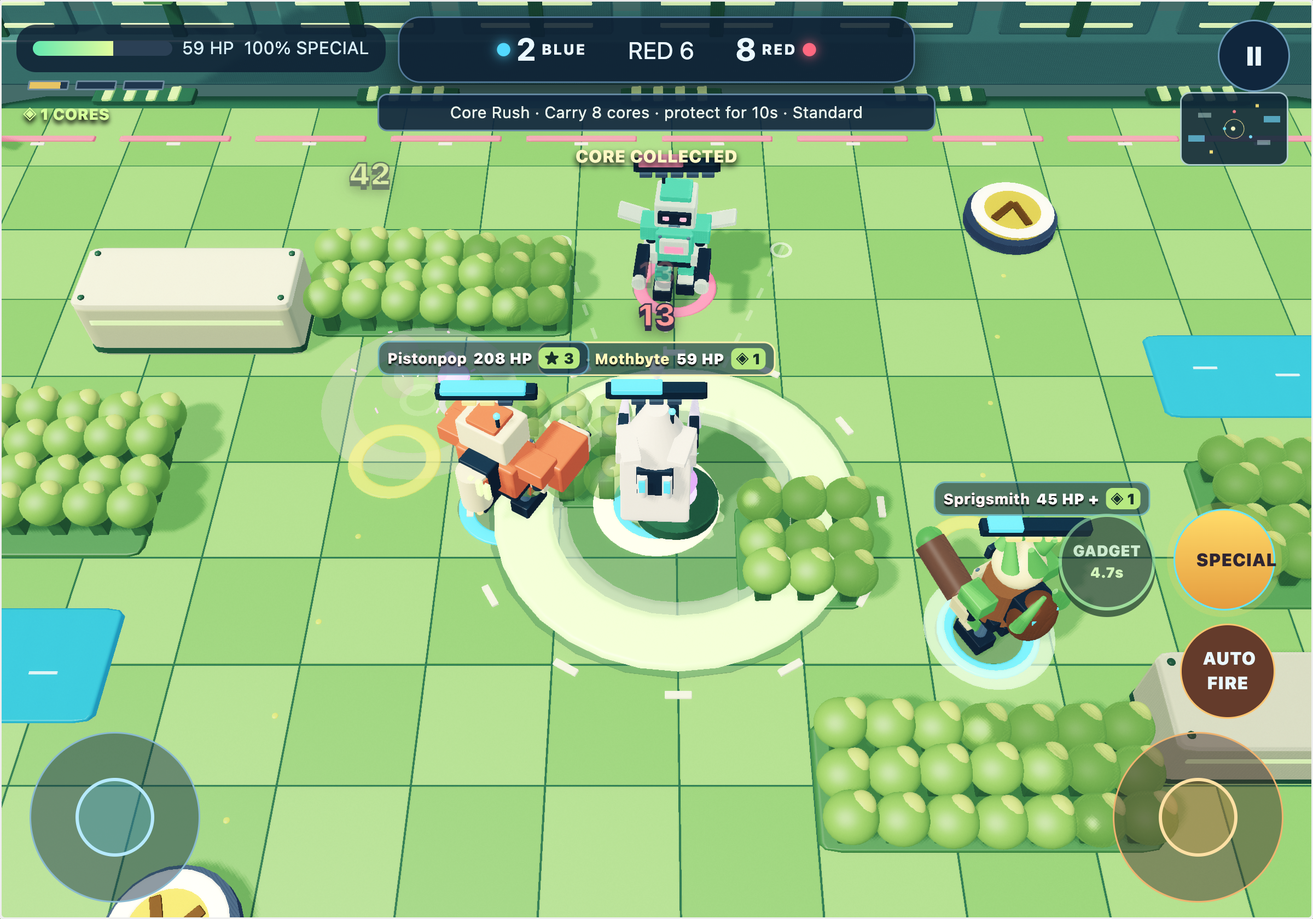
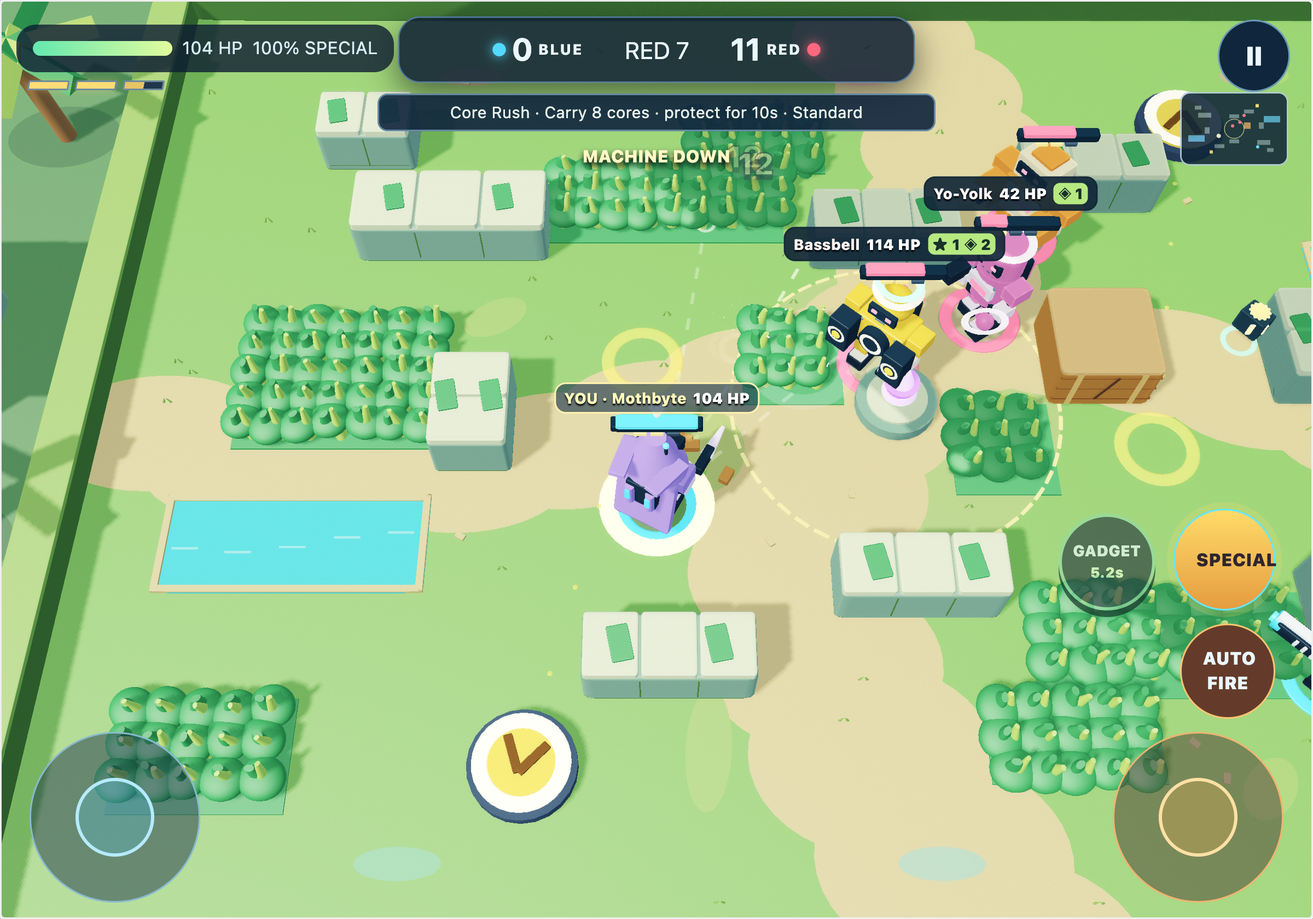
Publish Rivet Rumble world update (#12)

diff --git a/rivet-rumble/renderer.js b/rivet-rumble/renderer.js
@@ -20,13 +20,15 @@
   function lookAt(eye,target,up){let z=norm([eye[0]-target[0],eye[1]-target[1],eye[2]-target[2]]),x=norm(cross(up,z)),y=cross(z,x);return[x[0],y[0],z[0],0,x[1],y[1],z[1],0,x[2],y[2],z[2],0,-dot(x,eye),-dot(y,eye),-dot(z,eye),1];}
   const HD=typeof GameHD!=='undefined'?GameHD:typeof require==='function'?require('./hd-scene.js'):null;
   const PALETTES=[
-    {floor:'#74b8ab',tile:'#88c6ba',edge:'#214e62',stone:'#b4d4d8',top:'#edf7e9',accent:'#5bffe0',water:'#258eae',wood:'#c98548',back:'#396e83'},
-    {floor:'#c79c73',tile:'#d8b18a',edge:'#623f4d',stone:'#af6c58',top:'#f7d6a5',accent:'#ffb958',water:'#e47545',wood:'#bf8045',back:'#664956'},
-    {floor:'#7d9daa',tile:'#90b0b9',edge:'#30465f',stone:'#7c839f',top:'#dbe5f1',accent:'#c7a0ff',water:'#588ca1',wood:'#a68b62',back:'#405771'},
-    {floor:'#6ea75c',tile:'#81b969',edge:'#305b48',stone:'#b8bd94',top:'#e9e8bc',accent:'#baf489',water:'#338fac',wood:'#af8554',back:'#456c69'},
-    {floor:'#d7ad73',tile:'#e0bb87',edge:'#895441',stone:'#bd7556',top:'#f4d59d',accent:'#ffb452',water:'#cf7b47',wood:'#a67b4c',back:'#87625b'},
-    {floor:'#638aa5',tile:'#729eaf',edge:'#253c63',stone:'#6c79ae',top:'#c3def1',accent:'#78ffe0',water:'#2e78b6',wood:'#9e87ac',back:'#364b78'}
+    {floor:'#7dac65',tile:'#bdb780',edge:'#68854c',stone:'#738b9e',top:'#bdced3',accent:'#72e3df',water:'#48b9ce',wood:'#c48a46',back:'#708e55',grass:'#4c9e59',tip:'#9ed15c',soil:'#8e9c5a'},
+    {floor:'#d99b65',tile:'#dfb57f',edge:'#aa7051',stone:'#c6815d',top:'#f5c78b',accent:'#ffcb69',water:'#54b5c3',wood:'#b87844',back:'#b87e58',grass:'#b99543',tip:'#e7c859',soil:'#d49e64'},
+    {floor:'#7c74a5',tile:'#918ab0',edge:'#615478',stone:'#7d729f',top:'#c3b8d7',accent:'#b7a5ff',water:'#6d9dce',wood:'#a38379',back:'#635877',grass:'#548e94',tip:'#83c0b0',soil:'#79749e'},
+    {floor:'#6ca556',tile:'#b9aa78',edge:'#527a46',stone:'#779c8a',top:'#c3d3ac',accent:'#e8db83',water:'#4bb9c3',wood:'#b78148',back:'#537e56',grass:'#44945b',tip:'#a6d16a',soil:'#7eaa5b'},
+    {floor:'#db995f',tile:'#e6b97e',edge:'#a56349',stone:'#cb7854',top:'#f3bb80',accent:'#ffd777',water:'#55b9c4',wood:'#bc814b',back:'#b67a53',grass:'#aa9a49',tip:'#e4cb67',soil:'#d79660'},
+    {floor:'#7098ad',tile:'#91b1bd',edge:'#4c6c82',stone:'#697f9c',top:'#bacfdf',accent:'#72eee5',water:'#409fcd',wood:'#bb8d68',back:'#4f768e',grass:'#4c9390',tip:'#96c9ab',soil:'#7496a8'}
   ];
+  // Stable detail positions: rendering never consumes the match's gameplay RNG.
+  const noise=(x,z)=>{const v=Math.sin(x*127.1+z*311.7)*43758.5453;return v-Math.floor(v);};
   function Renderer(canvas,options){
     this.canvas=canvas;this.options=options||{};this.ready=false;this.lost=false;this.time=0;
     this.eye=[16,23.5,28.5];this.target=[16,0,11];this.fov=.82;this.camera={};this.init();
@@ -43,51 +45,107 @@
   Renderer.prototype.screenToWorld=function(clientX,clientY){const r=this.canvas.getBoundingClientRect(),nx=(clientX-r.left)/r.width*2-1,ny=1-(clientY-r.top)/r.height*2,t=Math.tan(this.fov/2),d=norm(this.camera.forward.map((v,i)=>v+this.camera.right[i]*nx*t*this.camera.aspect+this.camera.up[i]*ny*t)),k=-this.eye[1]/d[1];return{x:clamp(this.eye[0]+d[0]*k,0,32),z:clamp(this.eye[2]+d[2]*k,0,22)};};
   Renderer.prototype.part=function(name,x,y,z,sx,sy,sz,c,ry=0,rx=0,rz=0,glow=0,cast=true,rough=.52,metal=.25,kind=0){this.scene.draw(name,HD.matrix(x,y,z,sx,sy,sz,ry,rx,rz),c,[rough,metal,glow,kind],cast);};
   Renderer.prototype.floor=function(state,p){
-    const d=this.part.bind(this);d('box',16,-.4,11,33,.8,23,p.edge,0,0,0,0,false);d('box',16,-.13,11,32,.22,22,p.floor,0,0,0,0,false,.9,0,2);
-    for(let x=1;x<32;x+=2)for(let z=1;z<22;z+=2)d('cube',x,-.006,z,1.97,.02,1.97,((x+z)%4)?p.floor:p.tile,0,0,0,0,false,.88,0,2);
-    for(const z of [1.1,20.9])for(let x=2;x<31;x+=3){d('box',x,.02,z,2.45,.04,.16,z<11?'#ed7180':'#67daff',0,0,0,.12,false);d('cube',x,.025,z+.18,.3,.025,.09,'#f5eedc',0,0,0,0,false);}
-    for(const x of [.25,31.75]){d('box',x,.05,11,.18,.12,21.7,p.top,0,0,0,0,false);d('box',x,-.08,11,.38,.03,21.8,p.water,0,0,0,.2,false);}
-    // The objective and final ring retain the engine's exact ground coordinates.
+    const d=this.part.bind(this);
+    // A continuous landscape replaces the elevated board and its gameplay-like grid.
+    d('box',16,-.36,11,48,.6,38,p.back,0,0,0,0,false,1,0);
+    d('cube',16,-.09,11,32,.16,22,p.floor,0,0,0,0,false,1,0);
+    // Quiet, continuous worn paths leave combat silhouettes and cover in focus.
+    for(let z=1;z<22;z+=1.7)d('disc',16+Math.sin(z*.32)*2,.003,z,4.3,1,3.4,p.tile,0,0,0,0,false,1,0);
+    for(let x=1.5;x<32;x+=2)d('disc',x,.004,11+Math.sin(x*.26)*1.6,4.4,1,2.6,p.tile,0,0,0,0,false,1,0);
+    for(let i=0;i<7;i++)d('disc',1+noise(i,7)*30,.005,1+noise(i,19)*20,1.2+noise(i,11),1,.8,p.soil,noise(i,2)*TAU,0,0,0,false,1,0);
+    // Small stones and short tufts are ground decoration, never apparent cover.
+    for(let i=0;i<65;i++){
+      const x=1+noise(i,31)*30,z=1+noise(i,41)*20;
+      if(state.arenaData.obstacles.some(o=>x>o.x-.2&&x<o.x+o.w+.2&&z>o.z-.2&&z<o.z+o.h+.2)||state.arenaData.brush.some(b=>x>b.x&&x<b.x+b.w&&z>b.z&&z<b.z+b.h))continue;
+      if(i%3===0)d('box',x,.03,z,.12,.055,.19,p.tile,noise(i,17)*TAU,0,0,0,false,1,0);
+      else for(const side of [-1,1])d('cone',x+side*.045,.08,z,.06,.16,.035,p.soil,0,0,side*.35,0,false,1,0);
+    }
+    // Team entry marks stay flat and do not resemble colliders.
+    for(const [z,c]of [[2.2,'#d87d83'],[19.8,'#68b9c7']])for(const x of [7,16,25])d('disc',x,.015,z,1.45,1,.55,color(c,.5),0,0,0,0,false,1,0);
     if(state.mode==='foundry'||state.mode==='rush'){
-      d('cylinder',16,.018,11,6.5,.028,6.5,color(p.edge,.32),0,0,0,0,false);
-      d('torus',16,.062,11,6.3,6.3,.3,p.accent,0,-Math.PI/2,0,.4,false);
-      d('torus',16,.04,11,5.55,5.55,.14,color(p.top,.6),0,-Math.PI/2,0,.1,false);
-      for(let i=0;i<12;i++){const a=i/12*TAU;d('box',16+Math.cos(a)*3.55,.06,11+Math.sin(a)*3.55,.12,.05,.42,p.top,-a,0,0,.1,false);}
-      d('gear',16,.025,11,1.7,.12,1.7,color(p.accent,.6),this.time*.1,0,0,.15,false);if(state.mode==='rush'){d('cylinder',16,.18,11,1.45,.3,1.45,p.edge);d('cone',16,.85,11,.7,.7,.7,'#d5a8ff',this.time*.5,0,0,.6);d('cone',16,.5,11,.7,.7,.7,'#af72eb',this.time*.5,Math.PI,0,.4);}
+      d('disc',16,.018,11,6.5,1,6.5,color(p.tile,.45),0,0,0,0,false,1,0);
+      // Thin segmented paint keeps the exact 3.25-unit scoring boundary readable.
+      for(let i=0;i<48;i++){const a=i/48*TAU;d('box',16+Math.cos(a)*3.25,.035,11+Math.sin(a)*3.25,.32,.025,.075,p.accent,-a-Math.PI/2,0,0,.10,false);}
+      if(state.mode==='rush'){
+        d('cylinder',16,.14,11,1.6,.28,1.6,p.stone);d('cylinder',16,.30,11,1.2,.08,1.2,p.top);
+        d('cone',16,.90,11,.7,.7,.7,'#d5a8ff',this.time*.5,0,0,.4);d('cone',16,.55,11,.7,.7,.7,'#af72eb',this.time*.5,Math.PI,0,.3);
+      }else{d('disc',16,.027,11,1.2,1,1.2,color(p.accent,.35),0,0,0,.06,false);}
     }else{const radius=state.ring||17;for(let i=0;i<96;i++){const a=i/96*TAU,tx=-Math.sin(a),tz=Math.cos(a)/1.23;d('box',16+Math.cos(a)*radius,.07,11+Math.sin(a)*radius/1.23,radius*TAU/96,.045,.10,'#c5e98a',-Math.atan2(tz,tx),0,0,.15,false);}}
   };
+  Renderer.prototype.tree=function(x,z,p,palm){
+    const d=this.part.bind(this);
+    d('disc',x,.006,z,2.5,1,1.8,color('#243f38',.20),0,0,0,0,false);
+    d('cylinder',x,1.15,z,.4,2.3,.4,'#90704d',.2,0,.07,0,true,1,0);
+    if(palm){for(let i=0;i<6;i++){const a=i*TAU/6;d('wedge',x+Math.sin(a)*.65,2.65,z+Math.cos(a)*.65,.55,.35,2.1,i%2?p.grass:p.tip,a,.12,0,0,true,.9,0);}}
+    else{for(const [dx,y,dz,r]of [[0,2.6,0,2.6],[-.6,2.3,.3,1.6],[.6,2.7,-.3,1.8]])d('sphere',x+dx,y,z+dz,r,r*.8,r,dx<0?p.grass:p.tip,.25,0,0,0,true,1,0);}
+  };
   Renderer.prototype.scenery=function(state,p){
-    const d=this.part.bind(this),reduced=this.options.reducedMotion?.()||false,time=reduced?0:this.time;
-    // Background architecture stays beyond the playable footprint.
-    d('box',16,.6,-1.4,35,1.2,1.2,p.back);d('box',16,3.7,-1.9,35,.22,.38,p.top);
-    for(let x=1;x<34;x+=4){d('box',x,2,-1.45,.32,4,1,p.edge);d('box',x,2.3,-1.12,3.4,2.35,.14,p.back);for(let y=1.45;y<3.4;y+=.55)d('box',x,y,-1.02,2.5,.08,.07,p.accent,0,0,0,.25);d('cylinder',x,3.95,-1.4,.42,.3,.42,p.top);}
+    const d=this.part.bind(this),time=this.options.reducedMotion?.()?0:this.time;
+    // Solid boundary follows the movement bounds; all scenery remains outside it.
+    for(const x of [0,32]){d('box',x,.35,11,.8,.7,23,p.edge,0,0,0,0,true,1,0);d('box',x,.72,11,.82,.10,23,p.soil,0,0,0,0,true,1,0);}
+    for(const z of [0,22]){d('box',16,.35,z,32,.7,.8,p.edge,0,0,0,0,true,1,0);d('box',16,.72,z,32,.10,.82,p.soil,0,0,0,0,true,1,0);}
     for(const o of state.arenaData.obstacles){
-      if(o.hp<=0)continue;const x=o.x+o.w/2,z=o.z+o.h/2,wood=o.destructible;
-      if(o.kind==='water'){d('box',x,.025,z,o.w,.055,o.h,p.water,0,0,0,.12,false,.2,.4);for(let i=0;i<3;i++)d('box',x-o.w*.3+i*o.w*.3,.06,z+Math.sin(time+i)*.2,.45,.018,.055,'#ace9ee',0,0,0,.15,false);continue;}
-      d('box',x,.66,z,o.w,1.3,o.h,wood?p.wood:p.stone);d('box',x,1.34,z,o.w,.12,o.h,wood?'#f4c581':p.top);
-      if(wood){
-        for(let u=-o.w*.3;u<=o.w*.3+.01;u+=Math.max(.55,o.w*.3))d('box',x+u,.7,z,.075,1.25,o.h+.015,'#825334');
-        for(const s of [-1,1]){d('box',x,.69,z+s*(o.h*.5+.008),o.w*.87,.12,.035,'#664936',0,0,s*.35);d('box',x+o.w*s*.33,.7,z,.12,1.38,o.h+.025,'#647b83');}
-      }else{
-        d('box',x,.18,z,o.w+.02,.16,o.h+.02,p.edge);
-        for(const s of [-1,1]){d('box',x,.94,z+s*(o.h*.5+.005),Math.max(.3,o.w-.45),.12,.025,p.accent,0,0,0,.25);for(const u of [-1,1])d('sphere',x+u*(o.w*.5-.18),1.42,z+s*(o.h*.5-.18),.12,.08,.12,p.edge);}
+      const x=o.x+o.w/2,z=o.z+o.h/2;
+      if(o.hp<=0){
+        d('disc',x,.018,z,o.w,1,o.h,color(p.soil,.5),0,0,0,0,false);
+        for(let i=0;i<4;i++)d('box',x+(noise(i,o.x)-.5)*o.w*.7,.09,z+(noise(i,o.z)-.5)*o.h*.7,.32,.16,.20,p.wood,noise(i,9)*TAU,0,0,0,false,1,0);
+        continue;
       }
-      // Shallow panels and metal straps never extend the collider silhouette.
-      if(wood&&o.hp<65)d('box',x,.85,z+o.h*.5+.016,.035,.8,.02,'#513a35',0,0,-.28);
+      if(o.kind==='water'){
+        d('box',x,.023,z,o.w,.04,o.h,p.water,0,0,0,.08,false,.32,.04);
+        // Banks stay inside the same impassable rectangle, with no false extra wall.
+        for(const side of [-1,1]){d('box',x,.05,z+side*(o.h/2-.07),o.w,.07,.14,p.tile,0,0,0,0,false,1,0);d('box',x+side*(o.w/2-.07),.05,z,.14,.07,o.h,p.tile,0,0,0,0,false,1,0);}
+        for(let i=0;i<5;i++)d('box',o.x+o.w*(i+.5)/5,.055,z+Math.sin(time*.8+i)*Math.min(.2,o.h*.2),Math.min(.5,o.w/7),.015,.045,color('#c3f4ef',.55),0,0,0,.05,false);
+        continue;
+      }
+      if(o.destructible){
+        // Separately modeled timber stacks clearly signal breakable, resource-bearing cover.
+        d('box',x,.56,z,o.w,1.12,o.h,p.wood,0,0,0,0,true,.95,0);
+        for(const h of [.26,.62,.98])d('box',x,h,z+o.h/2-.018,o.w-.06,.035,.045,'#946239',0,0,0,0,true,1,0);
+        for(const u of [-.31,.31])d('box',x+o.w*u,.58,z,.13,1.18,o.h+.015,'#e4bc73',0,0,0,0,true,.9,0);
+        d('box',x,1.15,z,o.w,.07,o.h,'#dfb478',0,0,0,0,true,1,0);
+        if(o.hp<65)d('box',x,.66,z+o.h*.5+.02,.05,.8,.02,'#614737',0,0,-.35);
+      }else{
+        // Masonry seams are visual subdivisions of the exact single collider.
+        d('box',x,.55,z,o.w,1.1,o.h,p.stone,0,0,0,0,true,.95,0);
+        const cols=Math.max(1,Math.round(o.w/1.15)),rows=Math.max(1,Math.round(o.h/1.15));
+        for(let i=0;i<cols;i++)for(let j=0;j<rows;j++){
+          const bx=o.x+(i+.5)*o.w/cols,bz=o.z+(j+.5)*o.h/rows;
+          d('box',bx,1.13,bz,o.w/cols-.045,.18,o.h/rows-.045,p.top,0,0,0,0,true,1,0);
+        }
+        d('box',x,.13,z,o.w,.16,o.h,p.edge,0,0,0,0,true,1,0);
+        for(let i=1;i<cols;i++)d('box',o.x+i*o.w/cols,.61,z+o.h/2+.004,.027,.85,.012,p.edge,0,0,0,0,false,1,0);
+        if(state.arena===3)for(const side of [-1,1])d('box',x+side*o.w*.28,1.235,z,.38,.03,Math.min(o.h,.65),p.grass,.2,0,0,0,false,1,0);
+      }
     }
+    const player=state.entities.find(e=>e.id==='player');
     for(const b of state.arenaData.brush||[]){
-      const player=state.entities.find(e=>e.id==='player'),near=player&&player.x>b.x-1&&player.x<b.x+b.w+1&&player.z>b.z-1&&player.z<b.z+b.h+1;
-      d('box',b.x+b.w/2,.025,b.z+b.h/2,b.w,.04,b.h,'#48794b',0,0,0,0,false,.9,0);
-      for(let x=b.x+.4;x<b.x+b.w;x+=.7)for(let z=b.z+.35;z<b.z+b.h;z+=.7){const wave=Math.sin(time*1.4+x+z)*.035,height=.68+Math.sin(x*8+z*4)*.12;d('box',x,.32,z,.26,.65,.26,'#406d48',wave,0,0,0,true,.85,0);d('sphere',x+wave,height,z,.8,.72,.76,color(state.arena===4?'#a4a957':'#78aa58',near?.55:1),0,0,0,0,true,.9,0);d('sphere',x+.13,height+.2,z-.1,.4,.32,.42,color('#b5ce72',near?.55:1),0,0,0,0,false,.8,0);}
+      // Flat bed has the exact concealment footprint. Grass never grows through cover.
+      d('cube',b.x+b.w/2,.022,b.z+b.h/2,b.w,.035,b.h,p.grass,0,0,0,0,false,1,0);
+      for(let x=b.x+.24;x<b.x+b.w-.05;x+=.58)for(let z=b.z+.24;z<b.z+b.h-.05;z+=.58){
+        if(state.arenaData.obstacles.some(o=>o.hp>0&&x>o.x-.2&&x<o.x+o.w+.2&&z>o.z-.2&&z<o.z+o.h+.2))continue;
+        const n=noise(x,z),wave=Math.sin(time*1.7+x+z)*.045,h=.65+n*.27,near=player&&Math.hypot(player.x-x,player.z-z)<1.7,a=near?.60:1;
+        d('sphere',x+(n-.5)*.16,.27,z+(noise(z,x)-.5)*.16,.82,.45,.77,color(p.grass,a),n*TAU,0,0,0,true,1,0);
+        d('cone',x+(n-.5)*.12,.35,z,.56,h,.38,color(p.grass,a),n*TAU,wave,.12,0,true,1,0);
+        d('cone',x+.12,.39,z+.05,.32,h+.12,.25,color(p.tip,a),n*TAU+.9,-wave,-.17,0,true,1,0);
+      }
     }
-    if(state.arena===3)for(const [x,z]of [[-1,6],[33,16],[5,-2],[27,24]]){d('cylinder',x,1.3,z,.45,2.7,.45,'#805e47');for(let i=0;i<5;i++)d('box',x+Math.sin(i*1.3)*.5,2.8,z+Math.cos(i*1.3)*.5,.65,.25,2.3,'#74ae68',i*1.3,.3);}
-    if(state.arena===4)for(const [x,z]of [[-1,7],[33,15],[2,-2],[30,24]]){d('box',x,1.2,z,2.4,2.4,2.1,'#ae6952',.2);d('cone',x+.3,3,z,2.7,2.3,2.3,'#e0a16e',.2);d('cylinder',x-.4,.5,z+1.3,.48,1.1,.48,'#89a064');}
-    if(state.arena===5)for(const [x,z]of [[-1,6],[33,16]]){d('box',x,2,z,.6,4,.6,'#344a77');d('box',x,4,z,2.3,.35,.6,'#b3a4e8');d('box',x,3.7,z,1.8,.1,.5,'#7bffeb',0,0,0,.6);}
-    for(const [x,z]of [[-1,2],[-1,20],[33,2],[33,20]]){
-      d('cylinder',x,.5,z,1.9,1,1.9,p.edge);d('cylinder',x,1.25,z,1.4,.5,1.4,p.stone);d('torus',x,1.58,z,1.48,1.48,.17,p.accent,0,-Math.PI/2,0,.4);d('sphere',x,1.9,z,.48,.6,.48,p.top);
-      for(let i=0;i<4;i++){const a=time*.6+i*TAU/4;d('box',x+Math.cos(a)*.75,2.15,z+Math.sin(a)*.75,1.3,.09,.25,p.top,-a);}
+    // Each district has its own small world rather than repeated industrial fans.
+    for(const [x,z]of [[-2,4],[-2,14],[34,8],[34,19],[5,-2],[26,-2],[3,24],[28,24]]){
+      if(state.arena===1||state.arena===4){
+        d('box',x,.70,z,2.3,1.5,1.8,p.stone,.15,0,.05,0,true,1,0);d('box',x-.2,1.55,z,1.7,.55,1.4,p.top,-.1,0,0,0,true,1,0);
+        d('cylinder',x+1,.6,z+.7,.34,1.2,.34,p.grass,0,0,.1,0,true,1,0);d('sphere',x+1,1.2,z+.7,.36,.36,.36,p.tip,0,0,0,0,true,1,0);
+      }else if(state.arena===5){
+        d('box',x,.06,z,2.5,.15,2.5,p.wood,0,0,0,0,true,1,0);for(const off of [-.9,.9])d('cylinder',x+off,.6,z,.2,1.2,.2,p.edge,0,0,0,0,true,1,0);
+        d('box',x,1.3,z,1.5,2.6,.18,p.edge);d('box',x,2.7,z,1.8,.2,.65,p.top);d('box',x,2.55,z+.15,1.3,.08,.2,p.accent,0,0,0,.35);
+      }else this.tree(x,z,p,state.arena===3);
     }
-    for(let x=4;x<31;x+=6){d('box',x,.09,-.3,2.3,.12,.5,p.edge);for(let k=0;k<4;k++)d('box',x-.8+k*.5,.17,-.3,.22,.05,.48,p.accent,0,0,.1,0,false);}
+    for(const [x,z,angle]of [[-3.2,10,Math.PI/2],[35.2,13,-Math.PI/2],[11,-3.3,0],[23,25.3,Math.PI]]){
+      d('box',x,1,z,3.2,2,2.2,p.stone,angle,0,0,0,true,1,0);
+      d('box',x,2.16,z,3.7,.35,2.7,state.arena===5?p.edge:p.wood,angle,0,0,0,true,.9,0);
+      const fx=x+Math.sin(angle)*1.13,fz=z+Math.cos(angle)*1.13;
+      d('box',fx,1.05,fz,.9,1.5,.08,p.edge,angle);d('box',fx,1.8,fz,1.2,.2,.15,p.top,angle);
+    }
   };
   function teamColor(e){return e.team==='blue'?C.blue:e.team==='red'?C.red:e.id==='player'?C.solo:'#c18bff';}
   Renderer.prototype.robot=function(state,e){
@@ -207,11 +265,11 @@
     if(!this.ready||this.lost)return;
     const raw=state.entities.find(e=>e.id==='player'),alpha=clamp(state.accumulator/RivetRumbleEngine.STEP,0,1),player=raw?{...raw,x:(raw.prevX??raw.x)+(raw.x-(raw.prevX??raw.x))*alpha,z:(raw.prevZ??raw.z)+(raw.z-(raw.prevZ??raw.z))*alpha}:null,portrait=this.canvas.clientWidth/this.canvas.clientHeight<.8,focus=player?clamp(player.x,portrait?5:10,portrait?27:22):16,focusZ=player?clamp(player.z-1,5.5,16):11,dt=clamp((now-(this.previousTime??now))/1000,0,.1),fresh=this.previousState!==state;
     const follow=1-Math.exp(-dt*9);this.focusX=fresh?focus:(this.focusX??focus)+(focus-(this.focusX??focus))*follow;this.focusZ=fresh?focusZ:(this.focusZ??focusZ)+(focusZ-(this.focusZ??focusZ))*follow;
-    this.previousState=state;this.previousTime=now;this.eye=[this.focusX,portrait?22:17.5,this.focusZ+(portrait?16.5:13)];this.target=[this.focusX,0,this.focusZ];this.fov=portrait?.76:.72;
+    this.previousState=state;this.previousTime=now;this.eye=[this.focusX,portrait?26:21.5,this.focusZ+(portrait?14:11.5)];this.target=[this.focusX,0,this.focusZ];this.fov=.70;
     this.resize();this.time=this.options.reducedMotion?.()?0:now*.001;const p=PALETTES[state.arena]||PALETTES[0],lightVP=HD.multiply(HD.ortho(-25,25,-23,23,1,90),HD.lookAt([-6,36,30],[16,0,11],[0,1,0]));
     this.scene.begin(multiply(this.camera.p,this.camera.v),this.eye,this.time,{lightVP,clear:color(p.back).slice(0,3),fog:color(p.back).slice(0,3)});this.floor(state,p);this.scenery(state,p);this.launchPads(state);for(const e of state.entities)this.robot(state,{...e,x:(e.prevX??e.x)+(e.x-(e.prevX??e.x))*alpha,z:(e.prevZ??e.z)+(e.z-(e.prevZ??e.z))*alpha,airY:(e.prevAirY||0)+((e.airY||0)-(e.prevAirY||0))*alpha});this.action(state);this.smoke(state);this.aim(state,aim);this.scene.flush();
   };
-  Renderer.prototype.debug=function(){return{...this.scene?.debug(),lost:this.lost,webgl:!!this.gl,camera:{eye:this.eye.slice(),target:this.target.slice(),aspect:this.camera.aspect,fov:this.fov},playerScreen:this.previousState?(()=>{const p=this.previousState.entities.find(e=>e.id==='player');return p?this.worldToScreen(p.x,1.5,p.z):null})():null,renderer:'hd-articulated-arena'};};
+  Renderer.prototype.debug=function(){return{...this.scene?.debug(),lost:this.lost,webgl:!!this.gl,camera:{eye:this.eye.slice(),target:this.target.slice(),aspect:this.camera.aspect,fov:this.fov},playerScreen:this.previousState?(()=>{const p=this.previousState.entities.find(e=>e.id==='player');return p?this.worldToScreen(p.x,1.5,p.z):null})():null,renderer:'hd-landscape-arena',worldStyle:'continuous-terrain',layoutVersion:this.previousState?.layoutVersion};};
   Renderer.prototype.destroy=function(){this.scene?.destroy();this.ready=false;};
   return {Renderer,color};
 });

diff --git a/rivet-rumble/engine.js b/rivet-rumble/engine.js
@@ -64,11 +64,27 @@
     [[9.5,4,3,3],[19.5,15,3,3],[3,6,2,3],[27,13,2,3]],
     [[10,15,4,2],[18,5,4,2],[2,5,3,3],[27,14,3,3]]
   ];
-  const arenas = arenaTemplates.map((a,index) => Object.assign({}, a, {
+  const legacyArenas = arenaTemplates.map((a,index) => Object.assign({}, a, {
     pads:[{id:'launch-blue',x:9,z:18.2,toX:11,toZ:10},{id:'launch-red',x:23,z:3.8,toX:index===1?20:21,toZ:index===1?13.2:12}],
     brush:brushLayouts[index].map((b,i)=>({id:'brush'+i,x:b[0],z:b[1],w:b[2],h:b[3]})),
     obstacles:a.obstacles.map((o,i)=>({id:'wall'+i,x:o[0],z:o[1],w:o[2],h:o[3],kind:o[4]==='water'?'water':'cover',destructible:o[4]===true,hp:o[4]===true?96:1000000000}))
   }));
+  // Keep released geometry immutable: a resumed battle must not acquire new walls.
+  // These original paired cover clusters add flanks without sealing the central well.
+  const coverExtensions = [
+    [[12,2,2,1.2],[18,18.8,2,1.2],[3,8.8,2,1.4],[27,11.8,2,1.4],[13,14.8,3,1.2],[16,6,3,1.2],[9.5,11.8,1.2,2.2],[21.3,8,1.2,2.2]],
+    [[3,13.5,3,1.3],[26,7.2,3,1.3],[9,9.8,1.2,2],[21.8,10.2,1.2,2],[4,2.2,2,1.2],[26,18.6,2,1.2],[10,16,2,1.2],[20,4.8,2,1.2]],
+    [[3,5,2,1.2],[27,15.8,2,1.2],[12,2.4,3,1.2],[17,18.4,3,1.2],[9,13,1.4,2],[21.6,7,1.4,2],[14.6,9,2.8,1,true],[14.6,12,2.8,1,true]],
+    [[4,3.8,2,1.2],[26,17,2,1.2],[10,15.8,3,1.2],[19,5,3,1.2],[7,10.5,1.5,2],[23.5,9,1.5,2],[14.5,6.5,3,1.2],[14.5,14.3,3,1.2]],
+    [[2,4,3,1.3],[27,16.7,3,1.3],[2,18,2,1.1],[28,2.9,2,1.1],[11,18.8,2,1.2],[19,2,2,1.2],[15,8,2,1.2],[15,12.8,2,1.2]],
+    [[2,7,2,1.3],[28,13.7,2,1.3],[12,2.4,2,1.3],[18,18.3,2,1.3],[7,13.8,2,1.2],[23,7,2,1.2],[14,7.7,1.4,2],[16.6,12.3,1.4,2]]
+  ];
+  const arenas = legacyArenas.map((a,index)=>{
+    const arena=copy(a);
+    for(const o of coverExtensions[index])arena.obstacles.push({id:'wall'+arena.obstacles.length,x:o[0],z:o[1],w:o[2],h:o[3],kind:'cover',destructible:o[4]===true,hp:o[4]===true?96:1000000000});
+    for(const b of [[2,17,3,2],[27,3,3,2],[12,3.5,3,1.6],[17,16.9,3,1.6]])arena.brush.push({id:'brush'+arena.brush.length,x:b[0],z:b[1],w:b[2],h:b[3]});
+    return arena;
+  });
   const modes = {
     foundry:{name:'Foundry Hold',description:'Three robots hold the central energy well. First to 70, or lead when the clock stops.',limit:78},
     last:{name:'Last Rivet',description:'Eight independent robots outlast a tightening coolant ring. Collect power cells and fight for survival.',limit:96},
@@ -79,11 +95,17 @@
     const f=Object.hasOwn(fighterMap,fighterId)?fighterMap[fighterId]:fighters[0];
     return {id,label:label||f.name,team,fighter:f.id,x,z,prevX:x,prevZ:z,vx:0,vz:0,heading:team==='blue'?-Math.PI/2:Math.PI/2,radius:.62,hp:f.hp,maxHp:f.hp,ammo:f.ammo,reload:0,shot:0,special:0,alive:true,death:0,spawn:.9,cpu:!!cpu,walk:0,recoil:0,hit:0,dash:0,dashAngle:0,dashHits:[],jump:null,jumpLock:0,airY:0,prevAirY:0,score:0,power:0,cores:0,gadget:0,shield:0,haste:0,reveal:0,lastCombat:0,ai:{think:0,path:[],at:0,target:null,goal:null,stuck:0,lastX:x,lastZ:z,fire:false,reloading:false,recover:false},intent:{x:0,z:0,heading:0,range:f.range,fire:false,special:false,gadget:false}};
   }
-  function cloneArena(index) {const source=arenas[clamp(index|0,0,arenas.length-1)];return {...source,brush:copy(source.brush),obstacles:copy(source.obstacles)};}
+  function arenaForLayout(index,layoutVersion=4) {
+    if(![1,2,3,4].includes(layoutVersion)||!Number.isInteger(index)||index<0||index>=arenas.length||layoutVersion===1&&index>2)throw Error('Unknown arena layout.');
+    const arena=copy((layoutVersion===4?arenas:legacyArenas)[index]);
+    if(layoutVersion<3)arena.pads=[];
+    if(layoutVersion===1&&index===2){Object.assign(arena.obstacles[2],{x:13.1,z:9.8,w:5.8,h:1.8});Object.assign(arena.obstacles[3],{x:13.1,z:13,w:5.8,h:1.8});}
+    return arena;
+  }
   function createMatch(options) {
     options=options||{};const mode=Object.hasOwn(modes,options.mode)?options.mode:'foundry';
-    const state={version:VERSION,layoutVersion:3,mode,difficulty:Object.hasOwn(difficulties,options.difficulty)?options.difficulty:'standard',arena:clamp(options.arena|0,0,arenas.length-1),rng:(options.seed>>>0)||0x6d2b79f5,phase:'playing',result:null,endReason:'',tick:0,elapsed:0,accumulator:0,nextId:1,arenaData:null,entities:[],projectiles:[],effects:[],fields:[],events:[],pickups:[],supplyAt:8,coreAt:1.6,holdTeam:null,holdLeft:10,score:{blue:0,red:0},zoneTick:0,ring:17.3,matchLimit:modes[mode].limit,resultCount:0,stats:{shots:0,hits:0,wallHits:0,deaths:0,cpuShots:0,stuck:0,gadgets:0,pickups:0}};
-    state.arenaData=cloneArena(state.arena);
+    const state={version:VERSION,layoutVersion:4,mode,difficulty:Object.hasOwn(difficulties,options.difficulty)?options.difficulty:'standard',arena:clamp(options.arena|0,0,arenas.length-1),rng:(options.seed>>>0)||0x6d2b79f5,phase:'playing',result:null,endReason:'',tick:0,elapsed:0,accumulator:0,nextId:1,arenaData:null,entities:[],projectiles:[],effects:[],fields:[],events:[],pickups:[],supplyAt:8,coreAt:1.6,holdTeam:null,holdLeft:10,score:{blue:0,red:0},zoneTick:0,ring:17.3,matchLimit:modes[mode].limit,resultCount:0,stats:{shots:0,hits:0,wallHits:0,deaths:0,cpuShots:0,stuck:0,gadgets:0,pickups:0}};
+    state.arenaData=arenaForLayout(state.arena);
     state.entities.push(entity(state,'player',mode==='last'?'solo-0':'blue',Object.hasOwn(fighterMap,options.fighter)?options.fighter:'spark',16,18.2,false,'You'));
     const pool=fighters.filter(f=>f.id!==state.entities[0].fighter).map(f=>f.id);
     for(let i=pool.length-1;i>0;i--){const j=Math.floor(rng(state)*(i+1));[pool[i],pool[j]]=[pool[j],pool[i]];}
@@ -301,7 +323,7 @@
   function isFiniteNumber(n,min,max){return typeof n==='number'&&Number.isFinite(n)&&n>=min&&n<=max;}
   function validateLegacySnapshot(value){if(!value||typeof value!=='object'||value.version!==1||!['foundry','last'].includes(value.mode)||!['playing','ended'].includes(value.phase)||!Number.isInteger(value.arena)||value.arena<0||value.arena>=3||!Array.isArray(value.entities)||value.entities.length<6||value.entities.length>8||!Array.isArray(value.projectiles)||value.projectiles.length>180||!Array.isArray(value.fields)||value.fields.length>20||!Array.isArray(value.effects)||value.effects.length>MAX_EFFECTS||!Array.isArray(value.events)||value.events.length>60||!value.arenaData||typeof value.arenaData.id!=='string'||!Array.isArray(value.arenaData.obstacles)||value.arenaData.obstacles.length>20)return false;if(!isFiniteNumber(value.rng,0,4294967295)||!Number.isInteger(value.tick)||value.tick<0||!isFiniteNumber(value.elapsed,0,500)||!isFiniteNumber(value.ring,0,30)||!isFiniteNumber(value.accumulator,0,.5)||!isFiniteNumber(value.matchLimit,1,120)||!Number.isInteger(value.nextId)||value.nextId<1||value.nextId>100000||!value.score||!isFiniteNumber(value.score.blue,0,100)||!isFiniteNumber(value.score.red,0,100))return false;for(const o of value.arenaData.obstacles){if(!o||typeof o.id!=='string'||typeof o.destructible!=='boolean'||!isFiniteNumber(o.x,-1,WIDTH)||!isFiniteNumber(o.z,-1,HEIGHT)||!isFiniteNumber(o.w,.1,WIDTH)||!isFiniteNumber(o.h,.1,HEIGHT)||!isFiniteNumber(o.hp,0,1000000000))return false;}for(const e of value.entities){if(!e||typeof e.id!=='string'||!fighterMap[e.fighter]||typeof e.team!=='string'||typeof e.alive!=='boolean'||!isFiniteNumber(e.x,0,WIDTH)||!isFiniteNumber(e.z,0,HEIGHT)||!isFiniteNumber(e.vx,-40,40)||!isFiniteNumber(e.vz,-40,40)||!isFiniteNumber(e.heading,-20,20)||!isFiniteNumber(e.hp,0,300)||!isFiniteNumber(e.maxHp,1,300)||!isFiniteNumber(e.ammo,0,8)||!isFiniteNumber(e.reload,0,5)||!isFiniteNumber(e.special,0,1)||!isFiniteNumber(e.death,0,5)||!isFiniteNumber(e.spawn,0,5)||!e.intent||!isFiniteNumber(e.intent.x,-1,1)||!isFiniteNumber(e.intent.z,-1,1)||!isFiniteNumber(e.intent.heading,-20,20)||typeof e.intent.fire!=='boolean'||typeof e.intent.special!=='boolean')return false;}for(const p of value.projectiles){if(!p||typeof p.id!=='string'||typeof p.owner!=='string'||typeof p.team!=='string'||!isFiniteNumber(p.x,-2,WIDTH+2)||!isFiniteNumber(p.z,-2,HEIGHT+2)||!isFiniteNumber(p.vx,-40,40)||!isFiniteNumber(p.vz,-40,40)||!isFiniteNumber(p.damage,0,100)||!isFiniteNumber(p.life,0,20)||!Array.isArray(p.hit)||p.hit.length>8)return false;}for(const f of value.fields){if(!f||typeof f.id!=='string'||typeof f.team!=='string'||!isFiniteNumber(f.x,0,WIDTH)||!isFiniteNumber(f.z,0,HEIGHT)||!isFiniteNumber(f.radius,.1,8)||!isFiniteNumber(f.life,0,8)||!isFiniteNumber(f.maxLife,.1,8))return false;}return true;}
   function migrateLegacy(value){
-    const state=copy(value);state.version=VERSION;state.layoutVersion=1;state.difficulty='standard';state.pickups=[];state.supplyAt=state.elapsed+4;state.coreAt=state.elapsed+1.6;state.holdTeam=null;state.holdLeft=10;state.stats.gadgets=0;state.stats.pickups=0;state.arenaData.brush=copy(arenas[state.arena].brush);state.arenaData.pads=[];
+    const state=copy(value);state.version=VERSION;state.layoutVersion=1;state.difficulty='standard';state.pickups=[];state.supplyAt=state.elapsed+4;state.coreAt=state.elapsed+1.6;state.holdTeam=null;state.holdLeft=10;state.stats.gadgets=0;state.stats.pickups=0;state.arenaData.brush=copy(legacyArenas[state.arena].brush);state.arenaData.pads=[];
     state.arenaData.obstacles.forEach(o=>o.kind='cover');state.events=[];
     for(const e of state.entities){Object.assign(e,{power:0,cores:0,gadget:0,shield:0,haste:0,reveal:0,lastCombat:state.elapsed,dashAngle:e.heading,dashHits:[],jump:null,jumpLock:0,airY:0,prevAirY:0,prevX:e.x,prevZ:e.z});e.intent.range=fighterMap[e.fighter].range;e.intent.gadget=false;e.ai.fire=false;e.ai.reloading=false;e.ai.recover=false;
       if(solidAt(state,e.x,e.z,e.radius)){const old={x:e.x,z:e.z};let repaired=false;for(let i=1;i<121;i++){const radius=.2+Math.floor(i/12)*.35,a=i/12*TAU,x=clamp(old.x+Math.cos(a)*radius,1.1,30.9),z=clamp(old.z+Math.sin(a)*radius,1.1,20.9);if(!solidAt(state,x,z,e.radius)){e.x=e.prevX=x;e.z=e.prevZ=z;e.vx=e.vz=0;repaired=true;break;}}if(!repaired){const p=safeSpot(state,e.team,state.entities.indexOf(e)%3);e.x=e.prevX=p.x;e.z=e.prevZ=p.z;e.vx=e.vz=0;}}
@@ -319,7 +341,7 @@
     if(v.phase==='playing'&&(v.result!==null||v.resultCount!==0)||v.phase==='ended'&&(v.result===null||v.resultCount!==1))return false;
     if(!v.score||!number(v.score.blue,0,100)||!number(v.score.red,0,100)||!number(v.supplyAt,0,140)||!number(v.coreAt,0,140)||!number(v.holdLeft,0,10)||![null,'blue','red'].includes(v.holdTeam)||!number(v.zoneTick,0,.6))return false;
     if(!list(v.entities,8)||v.entities.length!==(v.mode==='last'?8:6)||!list(v.projectiles,180)||!list(v.fields,30)||!list(v.effects,MAX_EFFECTS)||!list(v.events,60)||!list(v.pickups,48)||!v.stats||!['shots','hits','wallHits','deaths','cpuShots','stuck','gadgets','pickups'].every(k=>number(v.stats[k],0,1000000)))return false;
-    const arena=copy(arenas[v.arena]);if(![1,2,3].includes(v.layoutVersion)||v.layoutVersion===1&&v.arena>2)return false;if(v.layoutVersion===1&&v.arena===2){Object.assign(arena.obstacles[2],{x:13.1,z:9.8,w:5.8,h:1.8});Object.assign(arena.obstacles[3],{x:13.1,z:13,w:5.8,h:1.8});}if(v.layoutVersion<3)arena.pads=[];if(!v.arenaData||JSON.stringify(v.arenaData.pads)!==JSON.stringify(arena.pads)||!['id','name','subtitle','floor','accent','hazards'].every(k=>v.arenaData[k]===arena[k])||!list(v.arenaData.obstacles,20)||v.arenaData.obstacles.length!==arena.obstacles.length||JSON.stringify(v.arenaData.brush)!==JSON.stringify(arena.brush))return false;
+    if(![1,2,3,4].includes(v.layoutVersion))return false;const arena=arenaForLayout(v.arena,v.layoutVersion);if(!v.arenaData||JSON.stringify(v.arenaData.pads)!==JSON.stringify(arena.pads)||!['id','name','subtitle','floor','accent','hazards'].every(k=>v.arenaData[k]===arena[k])||!list(v.arenaData.obstacles,20)||v.arenaData.obstacles.length!==arena.obstacles.length||JSON.stringify(v.arenaData.brush)!==JSON.stringify(arena.brush))return false;
     for(let i=0;i<arena.obstacles.length;i++){const a=arena.obstacles[i],b=v.arenaData.obstacles[i];if(!b||!['id','x','z','w','h','kind','destructible'].every(k=>a[k]===b[k])||!number(b.hp,0,a.hp))return false;}
     const ids=new Set(v.entities.map(e=>e?.id));if(ids.size!==v.entities.length||!ids.has('player'))return false;
     for(const e of v.entities){const f=fighterMap[e?.fighter];if(!f||typeof e.id!=='string'||e.id.length>24||typeof e.team!=='string'||e.team.length>24||typeof e.label!=='string'||e.label.length>60||typeof e.cpu!=='boolean'||typeof e.alive!=='boolean'||!integer(e.power,0,6)||!integer(e.cores,0,20)||!number(e.maxHp,1,300)||!number(e.hp,0,e.maxHp)||Math.abs(e.maxHp-f.hp*(1+e.power*.08))>.001)return false;
@@ -342,5 +364,5 @@
   function validateSnapshot(value){try{return validateCurrentSnapshot(value)}catch{return false;}}
   function restore(value){if(!validateSnapshot(value))throw Error('That match backup is incomplete or unsafe.');const state=value.version===1?migrateLegacy(value):value.version===2?migrateV2(value):copy(value);if(!validateSnapshot(state))throw Error('That older match could not be migrated safely.');return state;}
   function runCpuMatch(options){const state=createMatch(Object.assign({},options,{fighter:'spark'}));playerOf(state).cpu=true;for(let i=0;i<4200&&state.phase==='playing';i++)step(state);return state;}
-  return { VERSION, STEP, WIDTH, HEIGHT, fighters, fighterMap, arenas, modes, difficulties, gadgets, visibleTo, inBrush, inSmoke, createMatch, setIntent, requestFire, quickFire, requestSpecial, requestGadget, tick, step, snapshot, restore, validateSnapshot, runCpuMatch, gridPath, walkableLine, clearLine, solidAt };
+  return { VERSION, STEP, WIDTH, HEIGHT, fighters, fighterMap, arenas, modes, difficulties, gadgets, visibleTo, inBrush, inSmoke, arenaForLayout, createMatch, setIntent, requestFire, quickFire, requestSpecial, requestGadget, tick, step, snapshot, restore, validateSnapshot, runCpuMatch, gridPath, walkableLine, clearLine, solidAt };
 });

diff --git a/index.html b/index.html
@@ -59,9 +59,9 @@
           </div>
         </article>
 <article class="game-card">
-          <div class="game-art"><img src="./assets/rivet-rumble-preview.png" alt="Actual Rivet Rumble Core Rush match with articulated machines, reactor cores, foliage, cover, health and ammo feedback, gadget controls and local CPU opponents" width="1200" height="840" fetchpriority="high"></div>
+          <div class="game-art"><img src="./assets/rivet-rumble-preview.png" alt="Actual Rivet Rumble match in a grassy courtyard with segmented walls, timber cover, concealing bushes, water banks, articulated machines and touch controls" width="1200" height="840" fetchpriority="high"></div>
           <div class="game-copy"><p class="genre">3D arena action</p><h2>Rivet Rumble</h2>
-            <p class="description">Master twelve distinct fighters, six arenas and four CPU levels with launch pads, smoke, power cells and reusable gadgets.</p>
+            <p class="description">Fight through six colorful worlds with twelve original machines, tactical cover, bush ambushes, launch pads and four CPU levels.</p>
             <ul class="details"><li>12 fighters · 6 arenas</li><li>4 CPU levels · 3 modes</li><li>Saves on this device</li></ul>
             <a class="play-link" href="./rivet-rumble/">Play Rivet Rumble<svg viewBox="0 0 24 24" fill="none" stroke="currentColor" stroke-width="1.8" aria-hidden="true"><path d="M4 12h16m-6-6 6 6-6 6"/></svg></a>
           </div>

diff --git a/rivet-rumble/sw.js b/rivet-rumble/sw.js
@@ -2,7 +2,7 @@
 'use strict';
 
 const CACHE_PREFIX = "games-pwa:rivet-rumble:";
-const RELEASE = "0a763a5178e1d1d3a7d8";
+const RELEASE = "e0dbe5085bd770e2d8a5";
 const CACHE_NAME = CACHE_PREFIX + RELEASE;
 const ASSETS = ["./","./apple-touch-icon.png","./assets/icon.svg","./engine.js","./game-pwa.js","./game.js","./hd-scene.js","./icon-192.png","./icon-512.png","./index.html","./manifest.webmanifest","./privacy.html","./renderer.js","./style.css"];
 
